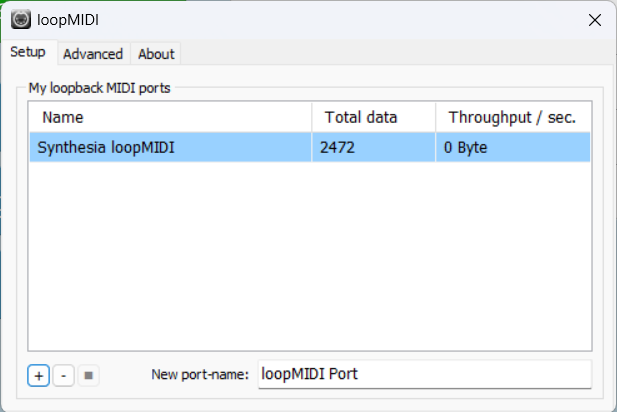
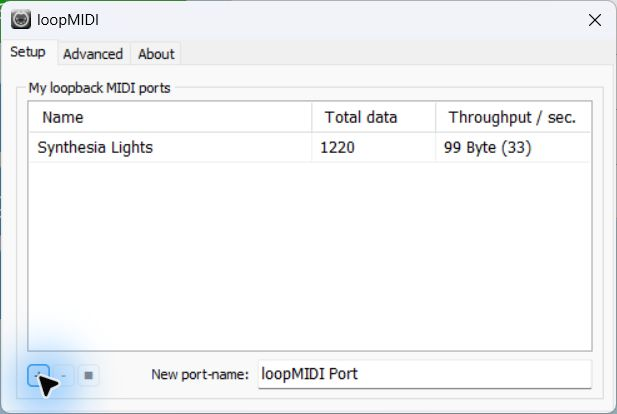
Use the default port name and show live loopMIDI throughput

diff --git a/README.md b/README.md
@@ -113,13 +113,13 @@ Start the bridge before Synthesia. After restarting the bridge, restart Synthesi
 For older Windows versions, or when using loopMIDI instead of the native MIDI API:
 
 1. Install and open [loopMIDI](https://www.tobias-erichsen.de/software/loopmidi.html).
-2. On **Setup**, enter **Synthesia loopMIDI** in **New port-name**, then click **+** at the bottom left. The new port appears in the list, as shown below.
-3. In `config.json`, set `midi.create_virtual_input` to `false` and `midi.input` to `Synthesia loopMIDI`. Leave loopMIDI running, then start **Start Synthesia bridge.cmd**.
-4. In Synthesia, select **Synthesia loopMIDI** under **Music Output**, enable sending, leave ordinary notes off, and choose **Key Lights → Finger-based channel**. Use the same options shown in the Windows screenshots above, but select the loopMIDI port name. Keep **PartyKeys** as Music Input and its Music Output off.
+2. On **Setup**, enter **Synthesia Lights** in **New port-name**, then click **+** at the bottom left. The new port appears in the list, as shown below.
+3. Leave loopMIDI running, then start **Start Synthesia bridge.cmd**. Keep `midi.input` in `config.json` set to `Synthesia Lights`; the bridge reuses that port without starting its native MIDI helper. You can also set `midi.create_virtual_input` to `false` to explicitly use the existing port.
+4. In Synthesia, select **Synthesia Lights** under **Music Output**, enable sending, leave ordinary notes off, and choose **Key Lights → Finger-based channel**, as shown in the Windows screenshots above. Keep **PartyKeys** as Music Input and its Music Output off.
 
-![loopMIDI with the created Synthesia loopMIDI port and MIDI data received](docs/images/windows-loopmidi-port-created.png)
+![loopMIDI with the created Synthesia Lights port, received MIDI data and active throughput](docs/images/windows-loopmidi-port-created.png)
 
-The screenshot shows the port after clicking **+**, with data already received. **Total data** increases when messages pass through the port; **Throughput / sec.** can return to `0 Byte` between messages. Open loopMIDI before the bridge and Synthesia on later runs too. This example uses a different name from the native **Synthesia Lights** route so the two connections are easy to distinguish.
+The screenshot shows the port after clicking **+**, with MIDI traffic passing through it. **Total data** increases as messages arrive; **Throughput / sec.** can return to `0 Byte` between messages. Open loopMIDI before the bridge and Synthesia on later runs too. Use either loopMIDI or the native bridge for this name; stop the native bridge before creating the loopMIDI port to avoid duplicate names.
 
 Custom existing routes also work:
 
